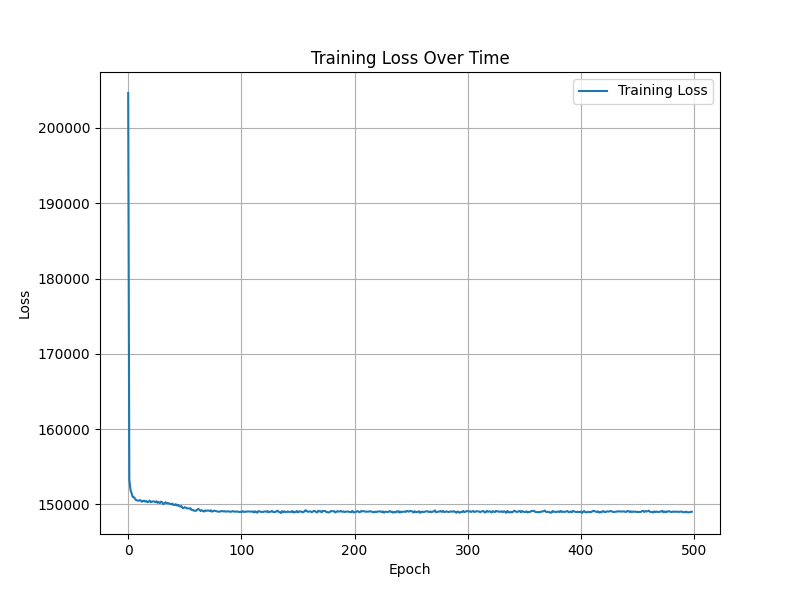
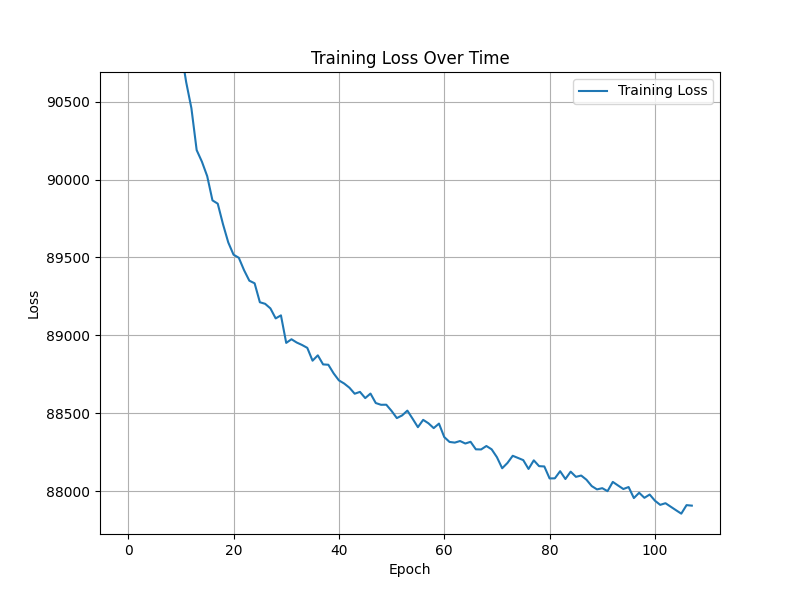
fix: change model and add lr scheduler

diff --git a/07_diffusion/model.py b/07_diffusion/model.py
@@ -8,13 +8,13 @@ from tqdm import tqdm
 import numpy as np
 
 
-def forward_diffusion(x: np.ndarray, timesteps: int, noise_std: float = 0.1) -> list[np.ndarray]:
+def forward_diffusion(x: np.ndarray, n_trajectory: int, noise_std: float = 0.1) -> list[np.ndarray]:
     """
-    Perturb the data over timesteps by adding Gaussian noise.
+    Perturb the data over trajectories by adding Gaussian noise.
 
     Args:
         x: Original data
-        timesteps: Number of timesteps for the diffusion
+        n_trajectory: Number of trajectory for the diffusion
         noise_std: Standard deviation of Gaussian noise
 
     Returns:
@@ -22,7 +22,7 @@ def forward_diffusion(x: np.ndarray, timesteps: int, noise_std: float = 0.1) -> 
     """
     noise = torch.randn_like(x) * noise_std
     diffusion_data = [x]
-    for t in range(timesteps):
+    for t in range(n_trajectory):
         x = x + noise
         diffusion_data.append(x)
     return diffusion_data
@@ -33,20 +33,21 @@ class ReverseDiffusionNet(nn.Module):
     Define the reverse process network (Score-based model)
     """
 
-    def __init__(self, input_dim, hidden_dim):
+    def __init__(self, input_dim: int, hidden_dim: int, n_trajectory: int):
         super(ReverseDiffusionNet, self).__init__()
-        self.net = nn.Sequential(
-            nn.Linear(input_dim, hidden_dim),
-            nn.ReLU(),
-            nn.Linear(hidden_dim, hidden_dim),
-            nn.ReLU(),
-            nn.Linear(hidden_dim, input_dim)
-        )
+        self.t_weights = nn.ParameterList()
+        for _ in range(n_trajectory):
+            layer = nn.Sequential(
+                nn.Linear(input_dim, hidden_dim),
+                nn.ReLU(),
+                nn.Linear(hidden_dim, input_dim)
+            )
+            self.t_weights.append(layer)
 
-    def forward(self, x):
+    def forward(self, x: np.ndarray, t: int):
         # Flatten the input from (batch_size, 28, 28) to (batch_size, 784)
         x = x.view(x.size(0), -1)
-        return self.net(x)
+        return self.t_weights[t](x)
 
 
 def score_matching_loss(predicted_score, true_data, noisy_data, noise_std):
@@ -67,13 +68,13 @@ def score_matching_loss(predicted_score, true_data, noisy_data, noise_std):
     return torch.mean((predicted_score - score) ** 2)
 
 
-def generate_image_from_noise(model, timesteps=10, noise_std=0.1):
+def generate_image_from_noise(model, n_trajectory=10, noise_std=0.1):
     """
     Generate an image starting from pure noise using the trained model.
 
     Args:
         model: The trained reverse diffusion model
-        timesteps: Number of timesteps to reverse the diffusion
+        n_trajectory: Number of n_trajectory to reverse the diffusion
         noise_std: Standard deviation of the initial noise
 
     Returns:
@@ -85,11 +86,11 @@ def generate_image_from_noise(model, timesteps=10, noise_std=0.1):
     model.eval()  # Set model to evaluation mode
     with torch.no_grad():
         # Step 2: Iteratively denoise the image by reversing the diffusion process
-        for t in reversed(range(timesteps)):
+        for t in reversed(range(n_trajectory)):
             # Flatten the noise to match the model input shape (batch_size, 784)
             noise_flat = noise.view(noise.size(0), -1)
             # Predict the denoised image
-            noise_flat = model(noise_flat)
+            noise_flat = model(noise_flat, t=t)
             # Reshape back to image format (batch_size, 1, 28, 28)
             noise = noise_flat.view(noise.size(0), 1, 28, 28)
 
@@ -119,7 +120,7 @@ def plot_generated_image(image: np.ndarray, output_file: str):
     plt.close()
 
 
-def plot_train_losses(train_losses, filename='training_loss_plot.png'):
+def plot_train_losses(train_losses: list[float], filename: str = 'training_loss_plot.png'):
     """
     Plot the training losses and save the plot to a file.
 
@@ -129,6 +130,10 @@ def plot_train_losses(train_losses, filename='training_loss_plot.png'):
     """
     plt.figure(figsize=(8, 6))
     plt.plot(train_losses, label='Training Loss')
+    y_limit_min = np.min(train_losses)
+    y_limit_min -= np.quantile(train_losses, 0.1) - y_limit_min
+    y_limit_max = np.quantile(train_losses, 0.9)
+    plt.ylim((y_limit_min, y_limit_max))
     plt.xlabel('Epoch')
     plt.ylabel('Loss')
     plt.title('Training Loss Over Time')
@@ -141,7 +146,8 @@ def plot_train_losses(train_losses, filename='training_loss_plot.png'):
 def train(model: nn.Module,
           train_loader: DataLoader,
           optimizer: optim.Optimizer,
-          timesteps=10,
+          scheduler: optim.lr_scheduler.LRScheduler,
+          n_trajectory=10,
           noise_std=0.1,
           epochs=10):
 
@@ -161,13 +167,13 @@ def train(model: nn.Module,
 
             # Forward diffusion process
             noisy_data_list = forward_diffusion(
-                batch_x, timesteps, noise_std)
+                batch_x, n_trajectory, noise_std)
 
             # Reverse process: predict score function for each timestep
             total_loss = 0
-            for t in range(timesteps):
+            for t in range(n_trajectory):
                 noisy_data = noisy_data_list[t]
-                predicted_score = model(noisy_data)
+                predicted_score = model(noisy_data, t=t)
 
                 loss = score_matching_loss(
                     predicted_score, batch_x, noisy_data, noise_std)
@@ -179,23 +185,26 @@ def train(model: nn.Module,
 
             # display progress
             step += 1
-            progress.set_description(
-                f"Step: {step}, Loss: {total_loss.item():.4f}")
+            progress.set_description(f"Epochs: {step / len(train_loader):.2f}, "
+                                     f"Loss: {total_loss.item():.4f}, "
+                                     f"LR: {scheduler.get_last_lr()[-1]:.4f}")
             progress.update(1)
 
-        if epoch % 5 == 0:
-            train_losses.append(train_batch_loss / len(train_loader))
-            plot_train_losses(train_losses)
+        train_losses.append(train_batch_loss / len(train_loader))
+        plot_train_losses(train_losses)
 
-        if epoch % 10 == 0:
+        if epoch % 20 == 0:
             # valid loop
             model.eval()
             with torch.no_grad():
                 # Generate and plot the image
                 generated_image = generate_image_from_noise(
-                    model, timesteps=timesteps, noise_std=noise_std)
+                    model, n_trajectory=n_trajectory, noise_std=noise_std)
                 plot_generated_image(
                     generated_image[:16], f"generated_{epoch}.png")
+
+        # end of epoch
+        scheduler.step()
 
 
 def get_device():
@@ -211,16 +220,16 @@ device = get_device()
 # Define hyperparameters
 input_dim = 28 * 28  # for example, MNIST data flattened
 hidden_dim = 512
-timesteps = 20
+n_trajectory = 20
 noise_std = 0.1
-epochs = 10000
+epochs = 2000
 batch_size = 256
-learning_rate = 0.01
+learning_rate = 0.001
 
 # Instantiate model and optimizer
-model = ReverseDiffusionNet(input_dim, hidden_dim).to(device)
+model = ReverseDiffusionNet(input_dim, hidden_dim, n_trajectory).to(device)
 optimizer = optim.Adam(model.parameters(), lr=learning_rate)
-
+scheduler = optim.lr_scheduler.StepLR(optimizer, step_size=12, gamma=0.95)
 
 # Assume data_loader is predefined for your dataset (e.g., MNIST or CIFAR-10)
 train_loader = DataLoader(
@@ -235,25 +244,25 @@ test_loader = DataLoader(
 
 
 # Train the model
-train(model, train_loader, optimizer, timesteps=timesteps,
-      noise_std=noise_std, epochs=epochs)
+train(model, train_loader, optimizer, scheduler,
+      n_trajectory=n_trajectory, noise_std=noise_std, epochs=epochs)
 
 
 def plot_noise_images(original: np.ndarray,
                       noisy_list: list[np.ndarray],
                       reconstructed: np.ndarray,
-                      timesteps: int,
+                      n_trajectory: int,
                       output_file: str):
     """
-    Plot the original, noisy (at different timesteps), and reconstructed images.
+    Plot the original, noisy (at different trajectory), and reconstructed images.
 
     Args:
         original: The original image
-        noisy_list: A list of noisy images at different timesteps
+        noisy_list: A list of noisy images at different trajectory
         reconstructed: The reconstructed image by the model
-        timesteps: Number of timesteps in the diffusion process
+        n_trajectory: Number of trajectory in the diffusion process
     """
-    fig, axes = plt.subplots(1, timesteps + 2, figsize=(15, 2))
+    fig, axes = plt.subplots(1, n_trajectory + 2, figsize=(15, 2))
 
     # Plot original image
     axes[0].imshow(original.view(28, 28).cpu().numpy(), cmap='gray')
@@ -261,7 +270,7 @@ def plot_noise_images(original: np.ndarray,
     axes[0].axis('off')
 
     # Plot noisy images
-    for i in range(timesteps):
+    for i in range(n_trajectory):
         data = noisy_list[i].view(28, 28).cpu().numpy()
         axes[i + 1].imshow(data, cmap='gray')
         axes[i + 1].set_title(f"{i+1}")
@@ -287,16 +296,16 @@ with torch.no_grad():
 
         # Perform forward diffusion
         noisy_data_list = forward_diffusion(
-            original_image.unsqueeze(0), timesteps, noise_std)
+            original_image.unsqueeze(0), n_trajectory, noise_std)
 
         # Use the model to reconstruct the image from the noisy version
         reconstructed = noisy_data_list[-1]  # Start from the most noisy data
-        for t in reversed(range(timesteps)):
-            reconstructed = model(reconstructed)
+        for t in reversed(range(n_trajectory)):
+            reconstructed = model(reconstructed, t=t)
 
         # Visualize original, noisy, and reconstructed images
         plot_noise_images(original_image, noisy_data_list,
-                          reconstructed, timesteps, 'reconstruct.png')
+                          reconstructed, n_trajectory, 'reconstruct.png')
 
         # Only plot for the first batch
         break
